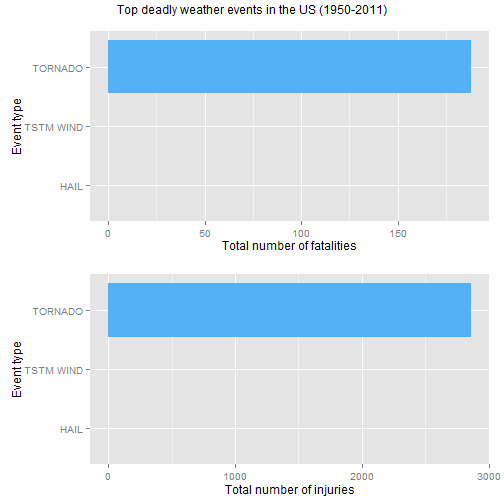
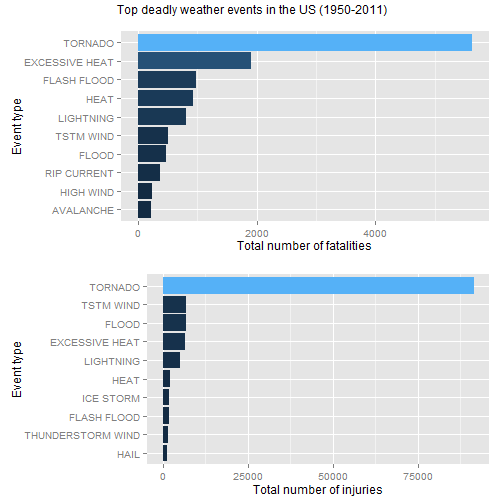
updating no 2

diff --git a/project2/storm.analysis.html b/project2/storm.analysis.html
@@ -256,43 +256,57 @@ if (is.installed(&#39;grid&#39;) == &#39;FALSE&#39;) {install.packages(&quot;gri
 if (is.installed(&#39;xtable&#39;) == &#39;FALSE&#39;) {install.packages(&quot;xtable&quot;);library(xtable)} else{library(xtable)}
 </code></pre>
 
-<p>The first step is to read the data into a data frame.</p>
+<ul>
+<li>The first step is to read the data into a data frame.</li>
+</ul>
 
 <pre><code class="r">options( warn = -1 )
 curdir &lt;-getwd()
-#file.url&lt;-&#39;http://d396qusza40orc.cloudfront.net/repdata%2Fdata%2FStormData.csv.bz2&#39;
-#download.file(file.url,destfile=paste(curdir,&#39;/repdata%2Fdata%2FStormData.csv.bz2&#39;,sep=&quot;&quot;))
-#storm &lt;- read.csv(bzfile(paste(curdir,&#39;/repdata%2Fdata%2FStormData.csv.bz2&#39;,sep=&quot;&quot;)),nrows=1500)
-storm &lt;- read.csv(bzfile(&quot;c://repdata%2Fdata%2FStormData.csv.bz2&quot;),nrows=1500)
+file.url&lt;-&#39;http://d396qusza40orc.cloudfront.net/repdata%2Fdata%2FStormData.csv.bz2&#39;
+download.file(file.url,destfile=paste(curdir,&#39;/repdata%2Fdata%2FStormData.csv.bz2&#39;,sep=&quot;&quot;))
+storm &lt;- read.csv(bzfile(paste(curdir,&#39;/repdata%2Fdata%2FStormData.csv.bz2&#39;,sep=&quot;&quot;)))
 </code></pre>
 
-<p>Get the no. of event types</p>
+<pre><code>## [1] 985
+</code></pre>
+
+<ul>
+<li>Get the no. of event types</li>
+</ul>
 
 <pre><code class="r">length(unique(storm$EVTYPE))
 </code></pre>
 
-<pre><code>## [1] 3
+<pre><code>## [1] 985
 </code></pre>
 
-<p>Converting letters to lower casing</p>
+<ul>
+<li>Converting letters to lower casing</li>
+</ul>
 
 <pre><code class="r">event_types &lt;- tolower(storm$EVTYPE)
 </code></pre>
 
-<p>Replace punctation characters with a space</p>
+<ul>
+<li>Replace punctation characters with a space</li>
+</ul>
 
 <pre><code class="r">event_types &lt;- gsub(&quot;[[:blank:][:punct:]+]&quot;, &quot; &quot;, event_types)
 </code></pre>
 
-<p>Get the unique of event types</p>
+<ul>
+<li>Get the unique of event types</li>
+</ul>
 
 <pre><code class="r">length(unique(event_types))
 </code></pre>
 
-<pre><code>## [1] 3
+<pre><code>## [1] 874
 </code></pre>
 
-<p>Get the casualities</p>
+<ul>
+<li>Get the casualities</li>
+</ul>
 
 <pre><code class="r">library(plyr)
 casualties &lt;- ddply(storm, .(EVTYPE), summarize,
@@ -300,7 +314,9 @@ casualties &lt;- ddply(storm, .(EVTYPE), summarize,
                     injuries = sum(INJURIES))
 </code></pre>
 
-<p>Find events which causing most injury and death</p>
+<ul>
+<li>Find events which causing most injury and death</li>
+</ul>
 
 <pre><code class="r">fatal_events &lt;- head(casualties[order(casualties$fatalities, decreasing = T), ], 10)
 injury_events &lt;- head(casualties[order(casualties$injuries, decreasing = T), ], 10)
@@ -308,19 +324,35 @@ fatal_events[, c(&quot;EVTYPE&quot;, &quot;fatalities&quot;)]
 injury_events[, c(&quot;EVTYPE&quot;, &quot;injuries&quot;)]
 </code></pre>
 
-<pre><code>##      EVTYPE fatalities
-## 2   TORNADO        188
-## 1      HAIL          0
-## 3 TSTM WIND          0
+<pre><code>##             EVTYPE fatalities
+## 834        TORNADO       5633
+## 130 EXCESSIVE HEAT       1903
+## 153    FLASH FLOOD        978
+## 275           HEAT        937
+## 464      LIGHTNING        816
+## 856      TSTM WIND        504
+## 170          FLOOD        470
+## 585    RIP CURRENT        368
+## 359      HIGH WIND        248
+## 19       AVALANCHE        224
 </code></pre>
 
-<pre><code>##      EVTYPE injuries
-## 2   TORNADO     2860
-## 1      HAIL        0
-## 3 TSTM WIND        0
+<pre><code>##                EVTYPE injuries
+## 834           TORNADO    91346
+## 856         TSTM WIND     6957
+## 170             FLOOD     6789
+## 130    EXCESSIVE HEAT     6525
+## 464         LIGHTNING     5230
+## 275              HEAT     2100
+## 427         ICE STORM     1975
+## 153       FLASH FLOOD     1777
+## 760 THUNDERSTORM WIND     1488
+## 244              HAIL     1361
 </code></pre>
 
-<p>Define function for exponent transformation and apply the transformation</p>
+<ul>
+<li>Define function for exponent transformation and apply the transformation</li>
+</ul>
 
 <pre><code class="r">exp_transform &lt;- function(e) {
     # h -&gt; hundred, k -&gt; thousand, m -&gt; million, b -&gt; billion
@@ -348,13 +380,9 @@ storm$crop_dmg &lt;- storm$CROPDMG * (10 ** crop_dmg_exp)
 
 </code></pre>
 
-<pre><code>## Error in FUN(X[[i]], ...): Invalid exponent value.
-</code></pre>
-
-<pre><code>## Error in `$&lt;-.data.frame`(`*tmp*`, &quot;crop_dmg&quot;, value = c(0, 0, 0, 0, 0, : replacement has 902297 rows, data has 1500
-</code></pre>
-
-<p>Calculating loss by event type</p>
+<ul>
+<li>Calculating loss by event type</li>
+</ul>
 
 <pre><code class="r">library(plyr)
 econ_loss &lt;- ddply(storm, .(EVTYPE), summarize,
@@ -363,10 +391,9 @@ econ_loss &lt;- ddply(storm, .(EVTYPE), summarize,
 
 </code></pre>
 
-<pre><code>## Error in eval(expr, envir, enclos): object &#39;crop_dmg&#39; not found
-</code></pre>
-
-<p>Removing events with no loss</p>
+<ul>
+<li>Removing events with no loss</li>
+</ul>
 
 <pre><code class="r">econ_loss &lt;- econ_loss[(econ_loss$prop_dmg &gt; 0 | econ_loss$crop_dmg &gt; 0), ]
 prop_dmg_events &lt;- head(econ_loss[order(econ_loss$prop_dmg, decreasing = T), ], 10)
@@ -401,7 +428,9 @@ crop_dmg_events[, c(&quot;EVTYPE&quot;, &quot;crop_dmg&quot;)]
 ## 212      FROST/FREEZE  1094086000
 </code></pre>
 
-<p>Set the levels in order  and produce 2 types of graph and combined as 1</p>
+<ul>
+<li>Set the levels in order  and produce 2 types of graph and combined as Top deadly weather</li>
+</ul>
 
 <pre><code class="r">library(ggplot2)
 library(gridExtra)
@@ -425,9 +454,11 @@ p2 &lt;- ggplot(data=injury_events,
 grid.arrange(p1, p2 , ncol=1, nrow=2, top = &quot;Top deadly weather events in the US (1950-2011)&quot;)  
 </code></pre>
 
[2 lines of base64/hex data omitted]
 
-<p>Set the levels in order  and produce 2 types of graph and combined as 1</p>
+<ul>
+<li>Set the levels in order  and produce 2 types of graph and combined as Weather costs</li>
+</ul>
 
 <pre><code class="r">library(ggplot2)
 library(gridExtra)

diff --git a/project2/storm.analysis.md b/project2/storm.analysis.md
@@ -60,21 +60,23 @@ if (is.installed('xtable') == 'FALSE') {install.packages("xtable");library(xtabl
 ```
 
 
-The first step is to read the data into a data frame.
+* The first step is to read the data into a data frame.
 
 ```r
 options( warn = -1 )
 curdir <-getwd()
-#file.url<-'http://d396qusza40orc.cloudfront.net/repdata%2Fdata%2FStormData.csv.bz2'
-#download.file(file.url,destfile=paste(curdir,'/repdata%2Fdata%2FStormData.csv.bz2',sep=""))
-#storm <- read.csv(bzfile(paste(curdir,'/repdata%2Fdata%2FStormData.csv.bz2',sep="")),nrows=1500)
-storm <- read.csv(bzfile("c://repdata%2Fdata%2FStormData.csv.bz2"),nrows=1500)
+file.url<-'http://d396qusza40orc.cloudfront.net/repdata%2Fdata%2FStormData.csv.bz2'
+download.file(file.url,destfile=paste(curdir,'/repdata%2Fdata%2FStormData.csv.bz2',sep=""))
+storm <- read.csv(bzfile(paste(curdir,'/repdata%2Fdata%2FStormData.csv.bz2',sep="")))
 ```
 
 
+```
+## [1] 985
+```
 
 
-Get the no. of event types
+* Get the no. of event types
 
 ```r
 length(unique(storm$EVTYPE))
@@ -82,10 +84,10 @@ length(unique(storm$EVTYPE))
 
 
 ```
-## [1] 3
+## [1] 985
 ```
 
-Converting letters to lower casing
+* Converting letters to lower casing
 
 ```r
 event_types <- tolower(storm$EVTYPE)
@@ -93,7 +95,7 @@ event_types <- tolower(storm$EVTYPE)
 
 
 
-Replace punctation characters with a space
+* Replace punctation characters with a space
 
 ```r
 event_types <- gsub("[[:blank:][:punct:]+]", " ", event_types)
@@ -101,7 +103,7 @@ event_types <- gsub("[[:blank:][:punct:]+]", " ", event_types)
 
 
 
-Get the unique of event types
+* Get the unique of event types
 
 ```r
 length(unique(event_types))
@@ -109,10 +111,10 @@ length(unique(event_types))
 
 
 ```
-## [1] 3
+## [1] 874
 ```
 
-Get the casualities
+* Get the casualities
 
 ```r
 library(plyr)
@@ -123,7 +125,7 @@ casualties <- ddply(storm, .(EVTYPE), summarize,
 
 
 
-Find events which causing most injury and death
+* Find events which causing most injury and death
 
 ```r
 fatal_events <- head(casualties[order(casualties$fatalities, decreasing = T), ], 10)
@@ -134,21 +136,35 @@ injury_events[, c("EVTYPE", "injuries")]
 
 
 ```
-##      EVTYPE fatalities
-## 2   TORNADO        188
-## 1      HAIL          0
-## 3 TSTM WIND          0
+##             EVTYPE fatalities
+## 834        TORNADO       5633
+## 130 EXCESSIVE HEAT       1903
+## 153    FLASH FLOOD        978
+## 275           HEAT        937
+## 464      LIGHTNING        816
+## 856      TSTM WIND        504
+## 170          FLOOD        470
+## 585    RIP CURRENT        368
+## 359      HIGH WIND        248
+## 19       AVALANCHE        224
 ```
 
 ```
-##      EVTYPE injuries
-## 2   TORNADO     2860
-## 1      HAIL        0
-## 3 TSTM WIND        0
+##                EVTYPE injuries
+## 834           TORNADO    91346
+## 856         TSTM WIND     6957
+## 170             FLOOD     6789
+## 130    EXCESSIVE HEAT     6525
+## 464         LIGHTNING     5230
+## 275              HEAT     2100
+## 427         ICE STORM     1975
+## 153       FLASH FLOOD     1777
+## 760 THUNDERSTORM WIND     1488
+## 244              HAIL     1361
 ```
 
 
-Define function for exponent transformation and apply the transformation
+* Define function for exponent transformation and apply the transformation
 
 ```r
 exp_transform <- function(e) {
@@ -178,15 +194,8 @@ storm$crop_dmg <- storm$CROPDMG * (10 ** crop_dmg_exp)
 ```
 
 
-```
-## Error in FUN(X[[i]], ...): Invalid exponent value.
-```
 
-```
-## Error in `$<-.data.frame`(`*tmp*`, "crop_dmg", value = c(0, 0, 0, 0, 0, : replacement has 902297 rows, data has 1500
-```
-
-Calculating loss by event type
+* Calculating loss by event type
 
 ```r
 library(plyr)
@@ -197,11 +206,8 @@ econ_loss <- ddply(storm, .(EVTYPE), summarize,
 ```
 
 
-```
-## Error in eval(expr, envir, enclos): object 'crop_dmg' not found
-```
 
-Removing events with no loss
+* Removing events with no loss
 
 ```r
 econ_loss <- econ_loss[(econ_loss$prop_dmg > 0 | econ_loss$crop_dmg > 0), ]
@@ -239,7 +245,7 @@ crop_dmg_events[, c("EVTYPE", "crop_dmg")]
 ## 212      FROST/FREEZE  1094086000
 ```
 
-Set the levels in order  and produce 2 types of graph and combined as 1
+* Set the levels in order  and produce 2 types of graph and combined as Top deadly weather
 
 ```r
 library(ggplot2)
@@ -265,7 +271,7 @@ grid.arrange(p1, p2 , ncol=1, nrow=2, top = "Top deadly weather events in the US
 ```
 ![plot of chunk unnamed-chunk-12](D:/Google Drive/Coursera/Assignment 5.1/R/coursera-repdata/project2/figure/unnamed-chunk-12-1.png) 
 
-Set the levels in order  and produce 2 types of graph and combined as 1
+* Set the levels in order  and produce 2 types of graph and combined as Weather costs
 
 ```r
 library(ggplot2)
